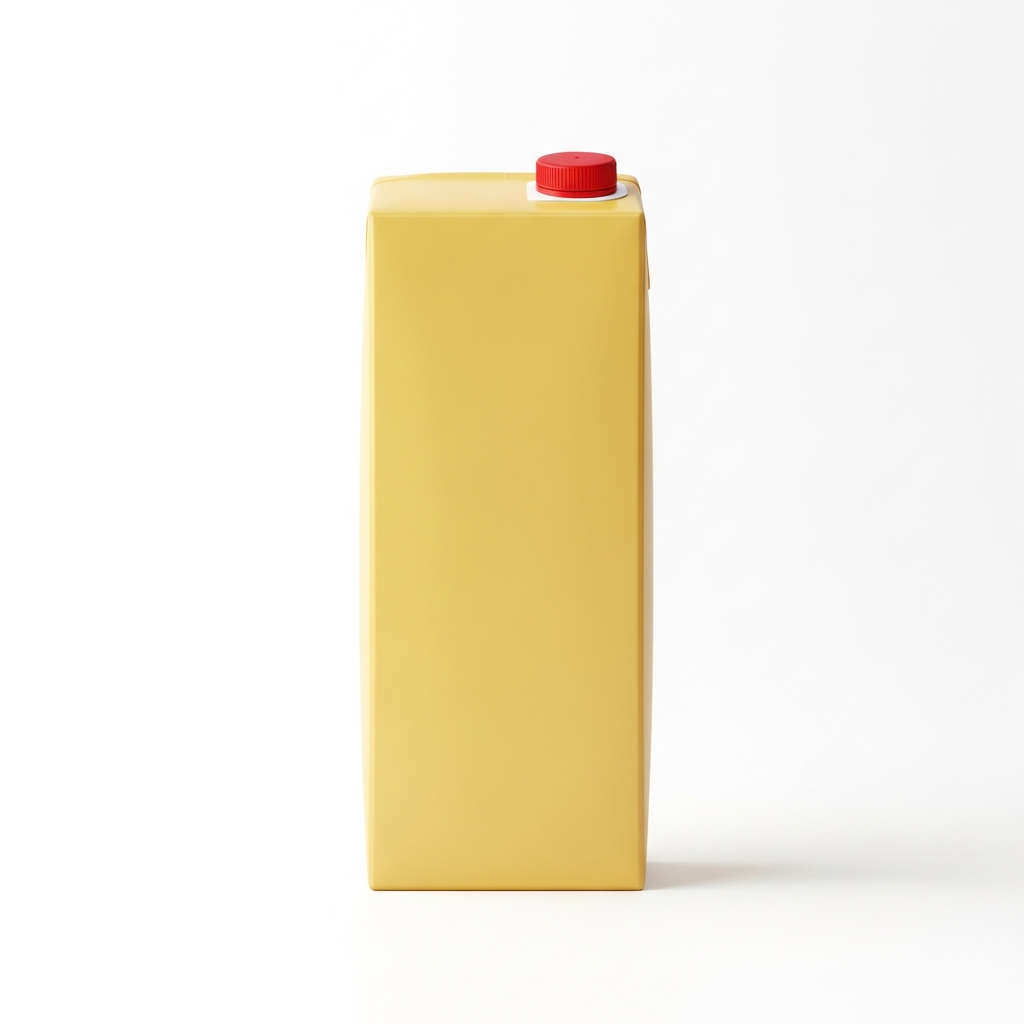
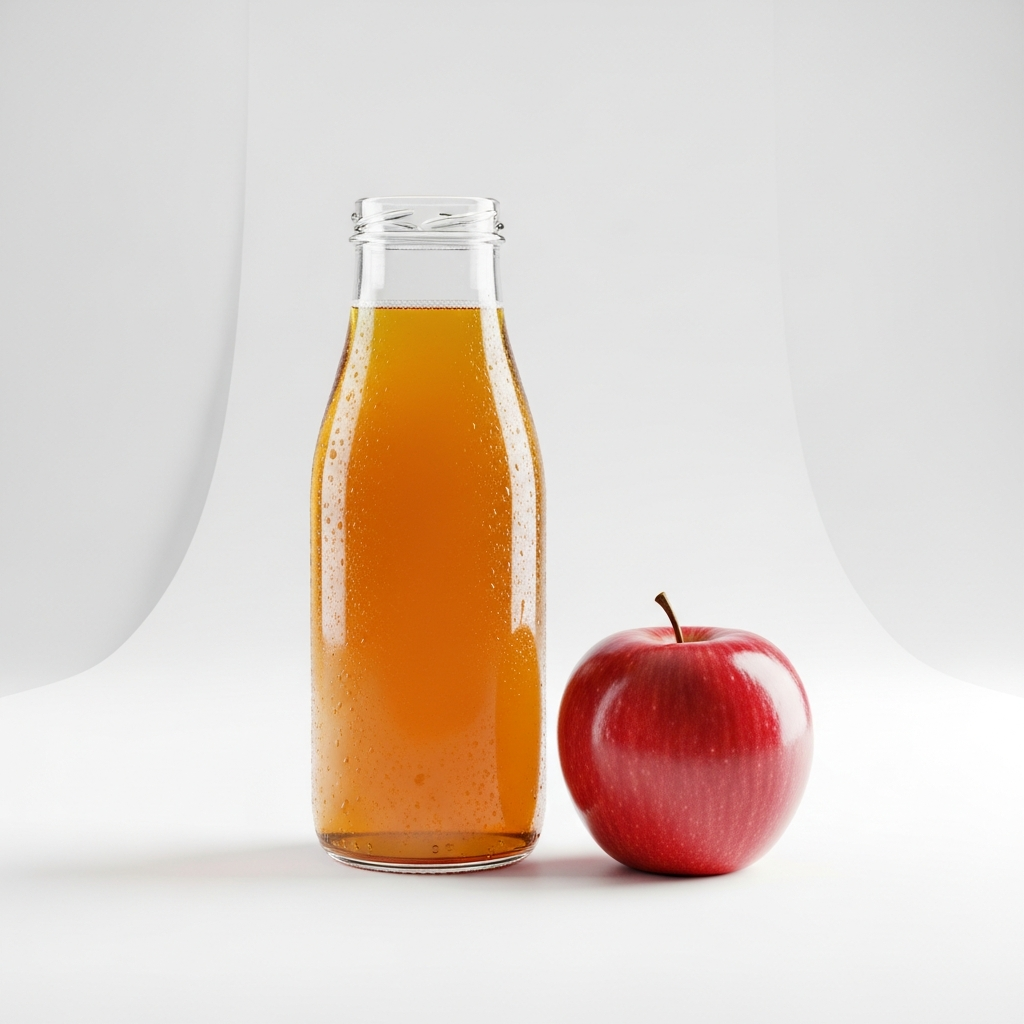
Update image generation to use a newer model and prevent file overwrites
Modify the image generation API call to prioritize 'gpt-image-1' and implement a new filename convention (`admin-{slug}-{timestamp}.png`) to prevent overwriting existing product images. The `apple-juice.png` file has also been restored.

Replit-Commit-Author: Agent
Replit-Commit-Session-Id: e5a3b5b5-2539-4cbc-b742-8a70b3128601
Replit-Commit-Checkpoint-Type: full_checkpoint
Replit-Commit-Event-Id: d4a98ec2-cef6-4abc-b29c-81905463ab49
Replit-Commit-Screenshot-Url: https://storage.googleapis.com/screenshot-production-us-central1/f2a3a63b-ad37-442b-acdc-73a1dad8377c/e5a3b5b5-2539-4cbc-b742-8a70b3128601/U3DWYmr
Replit-Helium-Checkpoint-Created: true

diff --git a/VORTREXYN Online Grocery Store/routes/admin.js b/VORTREXYN Online Grocery Store/routes/admin.js
@@ -82,21 +82,36 @@ router.post('/product/add', requireAdmin, async (req, res) => {
   const { product_name, unit_price, unit_quantity, in_stock } = req.body;
   try {
     const slug = product_name.trim().toLowerCase().replace(/[^a-z0-9]+/g, '-').replace(/^-|-$/g, '');
-    const imageFilename = `${slug}.png`;
+    const imageFilename = `admin-${slug}-${Date.now()}.png`;
     const imagePath = path.join(__dirname, '../assets/images/', imageFilename);
 
     let savedImageFilename = null;
     try {
-      const openai = new OpenAI({ apiKey: process.env.OPENAI_API_KEY });
-      const response = await openai.images.generate({
-        model:  'dall-e-2',
-        prompt: `A professional grocery store product photo of ${product_name.trim()}. Clean white background, studio lighting, sharp focus, high quality food photography, no text, no labels.`,
-        n:      1,
-        size:   '512x512',
-      });
-      await downloadImage(response.data[0].url, imagePath);
-      savedImageFilename = imageFilename;
-      console.log('AI image ready for:', product_name.trim());
+      const openai  = new OpenAI({ apiKey: process.env.OPENAI_API_KEY });
+      const prompt  = `High quality food product photo: ${product_name.trim()}. Pure white background, professional studio lighting, sharp focus. No text, no labels, no watermarks.`;
+      let   imgData = null;
+
+      const models = ['gpt-image-1', 'dall-e-3', 'dall-e-2'];
+      for (const model of models) {
+        try {
+          const opts = { model, prompt, n: 1, size: '1024x1024' };
+          if (model === 'dall-e-3') opts.quality = 'standard';
+          if (model === 'dall-e-2') opts.size = '512x512';
+          const resp = await openai.images.generate(opts);
+          imgData = resp.data[0].b64_json || null;
+          if (!imgData && resp.data[0].url) {
+            await downloadImage(resp.data[0].url, imagePath);
+            savedImageFilename = imageFilename;
+          } else if (imgData) {
+            fs.writeFileSync(imagePath, Buffer.from(imgData, 'base64'));
+            savedImageFilename = imageFilename;
+          }
+          console.log(`AI image ready (${model}) for:`, product_name.trim());
+          break;
+        } catch (modelErr) {
+          console.error(`Model ${model} failed:`, modelErr.message);
+        }
+      }
     } catch (imgErr) {
       console.error('Image gen failed:', imgErr.message);
     }
